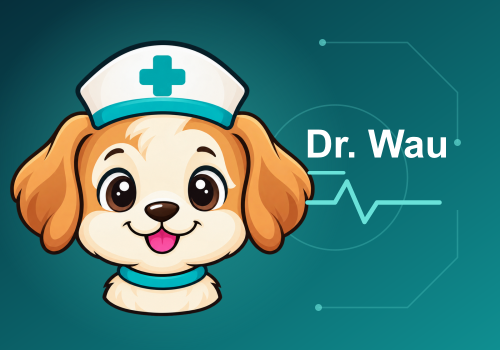
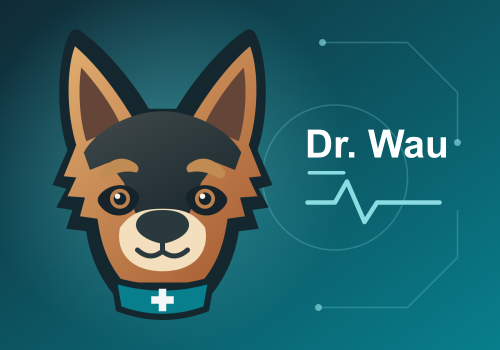
style: refresh Dr. Wau mascot and contrast

diff --git a/settings/index.html b/settings/index.html
@@ -7,9 +7,9 @@
   <script type="text/javascript" src="/homey.js" data-origin="settings"></script>
   <link rel="stylesheet" href="../assets/brand.css">
   <style>
-    :root { font-family: Inter, system-ui, sans-serif; --critical: #b42318; --high: #d92d20; --medium: #dc6803; --low: #475467; }
+    :root { font-family: Inter, system-ui, sans-serif; }
     * { box-sizing: border-box; }
-    body { margin: 0; padding: 24px; background: var(--page); color: var(--text); }
+    body { margin: 0; padding: clamp(14px, 4vw, 26px); background: var(--page); color: var(--text); font-size: 16px; line-height: 1.5; }
     main { max-width: 1040px; margin: 0 auto; }
     header, .section-heading { display: flex; gap: 18px; align-items: center; justify-content: space-between; flex-wrap: wrap; }
     h1, h2, p { margin-top: 0; }
@@ -18,80 +18,80 @@
     .brand-mark { display: block; width: 104px; height: 104px; object-fit: contain; padding: 8px; border: 1px solid var(--border); border-radius: 28px; background: var(--surface); box-shadow: 0 5px 18px rgb(15 143 145 / 8%); }
     .brand-heading h1::after { content: ''; display: block; width: 36px; height: 3px; margin: 6px auto 0; border-radius: 2px; background: var(--brand-highlight); }
     h2 { font-size: 18px; margin: 0; }
-    .muted { opacity: .7; }
-    button { appearance: none; border: 0; border-radius: 10px; min-height: 44px; max-width: 100%; overflow-wrap: anywhere; padding: 10px 14px; background: var(--brand-button); color: white; font-weight: 700; cursor: pointer; }
-    button.secondary { background: transparent; color: CanvasText; border: 1px solid color-mix(in srgb, CanvasText 20%, transparent); }
+    .muted { color: var(--muted); }
+    button { appearance: none; border: 0; border-radius: 10px; min-height: 44px; max-width: 100%; overflow-wrap: anywhere; padding: 10px 14px; background: var(--brand-button); color: white; font: 700 15px/1.4 system-ui, sans-serif; cursor: pointer; }
+    button.secondary { background: transparent; color: var(--text); border: 1px solid var(--border); }
     button.danger { background: transparent; color: var(--critical); border: 1px solid color-mix(in srgb, var(--critical) 35%, transparent); }
     button:disabled { opacity: .55; cursor: wait; }
     .actions, .editor-actions { display: flex; gap: 9px; flex-wrap: wrap; }
-    .tabs { display: flex; gap: 6px; margin: 18px 0; padding: 4px; overflow-x: auto; border: 1px solid color-mix(in srgb, CanvasText 12%, transparent); border-radius: 12px; background: var(--surface); scrollbar-width: thin; }
-    .tab { flex: 0 0 auto; padding: 9px 12px; background: transparent; color: CanvasText; border: 1px solid transparent; white-space: nowrap; }
-    .tab[aria-selected="true"] { background: var(--brand-button); color: white; box-shadow: 0 2px 7px color-mix(in srgb, var(--accent) 28%, transparent); }
-    .tab:focus-visible { outline: 3px solid color-mix(in srgb, var(--accent) 35%, transparent); outline-offset: 1px; }
+    .tabs { display: grid; grid-template-columns: repeat(5, minmax(0, 1fr)); gap: 6px; margin: 16px 0; padding: 6px; border: 1px solid var(--border); border-radius: 14px; background: var(--surface); }
+    .tab { min-width: 0; padding: 9px 8px; background: var(--soft); color: var(--text); border: 1px solid transparent; white-space: normal; }
+    .tab[aria-selected="true"] { background: var(--brand-button); color: white; border-color: var(--brand-highlight); }
+    .tab:focus-visible { outline: 3px solid var(--accent); outline-offset: 1px; }
     .tab-panel[hidden] { display: none; }
     .panel-heading { margin-bottom: 16px; }
     .overview-grid { display: grid; grid-template-columns: repeat(2, minmax(0, 1fr)); gap: 14px; }
-    .module-card { min-height: 150px; padding: 18px; text-align: left; color: CanvasText; background: var(--surface); border: 1px solid color-mix(in srgb, CanvasText 14%, transparent); border-radius: 14px; }
+    .module-card { min-height: 150px; padding: 18px; text-align: left; color: var(--text); background: var(--surface); border: 1px solid var(--border); border-radius: 14px; }
     .module-card:hover { border-color: color-mix(in srgb, var(--accent) 60%, transparent); }
     .module-card h2 { margin-bottom: 9px; }
     .module-card .module-state { display: block; margin-top: 16px; color: var(--accent); font-size: 13px; font-weight: 800; }
-    .hero { padding: 22px; margin-bottom: 16px; border-radius: 18px; background: color-mix(in srgb, var(--accent) 12%, Canvas); }
+    .hero { padding: 22px; margin-bottom: 16px; border-radius: 18px; background: var(--soft); border: 1px solid var(--border); }
     .hero h2 { font-size: 24px; line-height: 1.25; margin-bottom: 8px; }
     .device-list { display: grid; gap: 8px; margin: 14px 0; }
-    .device-item { width: 100%; display: grid; grid-template-columns: minmax(0, 1fr) auto; gap: 5px 16px; text-align: left; background: Canvas; color: CanvasText; border: 1px solid color-mix(in srgb, CanvasText 18%, transparent); }
+    .device-item { width: 100%; display: grid; grid-template-columns: minmax(0, 1fr) auto; gap: 5px 16px; text-align: left; background: var(--surface); color: var(--text); border: 1px solid var(--border); }
     .device-item strong, .device-item span { overflow-wrap: anywhere; }
     .device-item span { max-width: 150px; text-align: right; }
-    .device-item small { grid-column: 1 / -1; opacity: .75; font-weight: 400; }
+    .device-item small { grid-column: 1 / -1; color: var(--muted); font-weight: 400; }
     .device-item.needs-attention { border-left: 4px solid var(--medium); }
-    .device-detail { margin: 16px 0; padding: 18px; border: 1px solid color-mix(in srgb, var(--accent) 30%, transparent); border-radius: 14px; background: Canvas; }
+    .device-detail { margin: 16px 0; padding: 18px; border: 1px solid color-mix(in srgb, var(--accent) 30%, transparent); border-radius: 14px; background: var(--surface); }
     .device-detail pre { white-space: pre-wrap; overflow-wrap: anywhere; }
     .detail-grid { display: grid; grid-template-columns: repeat(2, minmax(0, 1fr)); gap: 12px; }
     .detail-grid label { display: grid; gap: 5px; }
-    .detail-grid input { width: 100%; padding: 8px; border-radius: 8px; border: 1px solid color-mix(in srgb, CanvasText 22%, transparent); background: Canvas; color: CanvasText; }
+    .detail-grid input { width: 100%; padding: 8px; border-radius: 8px; border: 1px solid var(--border); background: var(--surface); color: var(--text); }
     .watchdog-filter-row { display: grid; grid-template-columns: 2fr repeat(3, 1fr); gap: 8px; margin: 14px 0; }
-    .watchdog-filter-row input { min-width: 0; padding: 9px; border-radius: 8px; border: 1px solid color-mix(in srgb, CanvasText 20%, transparent); background: Canvas; color: CanvasText; }
+    .watchdog-filter-row input { min-width: 0; padding: 9px; border-radius: 8px; border: 1px solid var(--border); background: var(--surface); color: var(--text); }
     .notice { margin: 18px 0; padding: 13px 15px; border: 1px solid color-mix(in srgb, var(--accent) 35%, transparent); border-radius: 12px; background: var(--surface); }
     .score-grid { display: grid; grid-template-columns: 1.25fr repeat(4, minmax(100px, 1fr)); gap: 10px; margin: 18px 0; }
-    .score-card { min-height: 112px; border: 1px solid color-mix(in srgb, CanvasText 14%, transparent); border-radius: 14px; padding: 15px; background: var(--surface); }
+    .score-card { min-height: 112px; border: 1px solid var(--border); border-radius: 14px; padding: 15px; background: var(--surface); }
     .score-card.main { background: var(--brand-button); color: white; }
     .score { font-size: 36px; font-weight: 800; line-height: 1; margin: 7px 0; }
-    .label { font-size: 12px; text-transform: uppercase; letter-spacing: .06em; opacity: .75; }
+    .label { font-size: 12px; text-transform: uppercase; letter-spacing: .06em; }
     .inventory { display: flex; flex-wrap: wrap; gap: 8px; margin-bottom: 22px; }
     .filters { display: flex; align-items: center; gap: 10px; margin: 0 0 16px; padding: 12px; border-radius: 12px; background: var(--surface); }
     .filters label { font-size: 13px; font-weight: 700; white-space: nowrap; }
     .filters select { max-width: 260px; }
-    .pill, .badge { padding: 6px 9px; border-radius: 999px; background: var(--surface); border: 1px solid color-mix(in srgb, CanvasText 12%, transparent); font-size: 12px; }
+    .pill, .badge { padding: 6px 9px; border-radius: 999px; background: var(--surface); border: 1px solid var(--border); font-size: 12px; }
     .badge { padding: 3px 7px; }
-    .badge.ignored { color: var(--medium); border-color: color-mix(in srgb, var(--medium) 55%, transparent); }
-    .finding { border: 1px solid color-mix(in srgb, CanvasText 14%, transparent); border-left: 5px solid var(--low); border-radius: 10px; padding: 13px 14px; margin-bottom: 10px; }
+    .badge.ignored { color: var(--muted); border-color: var(--border); }
+    .finding { background: var(--surface); border: 1px solid var(--border); border-left: 5px solid var(--low); border-radius: 10px; padding: 13px 14px; margin-bottom: 10px; }
     .finding.critical { border-left-color: var(--critical); }
     .finding.high { border-left-color: var(--high); }
     .finding.medium { border-left-color: var(--medium); }
     .finding.ignored { opacity: .82; border-left-style: dashed; }
     .finding h3 { font-size: 15px; margin: 5px 0; }
-    .finding p { margin: 4px 0 0; font-size: 13px; }
+    .finding p { margin: 4px 0 0; font-size: 14px; }
     .cause-details > details { border-top: 1px solid var(--border); }
-    .meta { display: flex; gap: 6px; align-items: center; flex-wrap: wrap; font-size: 11px; opacity: .75; text-transform: uppercase; letter-spacing: .04em; }
+    .meta { display: flex; gap: 6px; align-items: center; flex-wrap: wrap; font-size: 12px; color: var(--muted); text-transform: uppercase; letter-spacing: .04em; }
     details { margin-top: 10px; }
-    summary { cursor: pointer; color: var(--accent); font-weight: 700; font-size: 13px; }
+    summary { cursor: pointer; color: var(--accent); font-weight: 700; font-size: 14px; }
     .editor { display: grid; grid-template-columns: repeat(2, minmax(160px, 1fr)); gap: 10px; padding: 12px 0 2px; }
     .editor label { display: grid; gap: 5px; font-size: 12px; font-weight: 700; }
     .editor label.wide, .editor-actions { grid-column: 1 / -1; }
-    select, textarea { width: 100%; border-radius: 8px; border: 1px solid color-mix(in srgb, CanvasText 20%, transparent); background: Canvas; color: CanvasText; padding: 9px; font: inherit; }
+    select, textarea { width: 100%; border-radius: 8px; border: 1px solid var(--border); background: var(--surface); color: var(--text); padding: 9px; font: inherit; }
     textarea { min-height: 70px; resize: vertical; }
     .check { display: flex !important; grid-template-columns: auto 1fr !important; align-items: center; justify-content: start; }
     .check input { width: 18px; height: 18px; }
-    .board { margin: 22px 0; padding: 16px; border-radius: 14px; background: color-mix(in srgb, var(--medium) 6%, Canvas); border: 1px solid color-mix(in srgb, var(--medium) 30%, transparent); }
+    .board { margin: 22px 0; padding: 16px; border-radius: 14px; background: var(--surface); border: 1px solid var(--border); }
     .watchdog { margin: 18px 0 24px; padding: 16px; border: 1px solid color-mix(in srgb, var(--accent) 35%, transparent); border-radius: 14px; background: var(--surface); }
     .watchdog-grid { display: grid; grid-template-columns: repeat(3, minmax(140px, 1fr)); gap: 12px; margin: 14px 0; }
     .watchdog-grid label { display: grid; gap: 5px; font-size: 12px; font-weight: 700; }
     .monitoring-wrap { overflow-x: auto; margin: 12px 0; }
     .monitoring-table { width: 100%; border-collapse: collapse; font-size: 13px; }
-    .monitoring-table th, .monitoring-table td { padding: 10px; text-align: left; vertical-align: top; border-bottom: 1px solid color-mix(in srgb, CanvasText 15%, transparent); min-width: 130px; }
-    .monitoring-table select, .monitoring-table input { max-width: 190px; min-height: 40px; padding: 6px; background: Canvas; color: CanvasText; border: 1px solid color-mix(in srgb, CanvasText 25%, transparent); border-radius: 6px; }
+    .monitoring-table th, .monitoring-table td { padding: 10px; text-align: left; vertical-align: top; border-bottom: 1px solid var(--border); min-width: 130px; }
+    .monitoring-table select, .monitoring-table input { max-width: 190px; min-height: 40px; padding: 6px; background: var(--surface); color: var(--text); border: 1px solid var(--border); border-radius: 6px; }
     .monitoring-table small { display: block; margin-top: 6px; }
-    .watchdog-grid input[type="number"] { width: 100%; padding: 9px; border-radius: 8px; border: 1px solid color-mix(in srgb, CanvasText 20%, transparent); background: Canvas; color: CanvasText; }
-    .checkbox-list { max-height: 190px; overflow-y: auto; margin-top: 6px; padding: 5px; border: 1px solid color-mix(in srgb, CanvasText 20%, transparent); border-radius: 8px; background: Canvas; }
+    .watchdog-grid input[type="number"] { width: 100%; padding: 9px; border-radius: 8px; border: 1px solid var(--border); background: var(--surface); color: var(--text); }
+    .checkbox-list { max-height: 190px; overflow-y: auto; margin-top: 6px; padding: 5px; border: 1px solid var(--border); border-radius: 8px; background: var(--surface); }
     .checkbox-row { display: flex; align-items: center; gap: 9px; padding: 6px 8px; border-radius: 6px; font-size: 13px; cursor: pointer; }
     .checkbox-row:hover { background: var(--surface); }
     .checkbox-row input { flex: 0 0 auto; width: 18px; height: 18px; margin: 0; }
@@ -103,7 +103,7 @@
     summary { padding: 10px 0; }
     .notice, .hero, .module-card, .finding, .pill, .badge, #migration-summary { overflow-wrap: anywhere; }
     .board-description { margin: 8px 0 14px; }
-    .empty { text-align: center; padding: 32px; border: 1px dashed color-mix(in srgb, CanvasText 25%, transparent); border-radius: 12px; }
+    .empty { text-align: center; padding: 32px; border: 1px dashed var(--border); border-radius: 12px; }
     @media (max-width: 760px) { body { padding: 16px; } .tabs { display: grid; grid-template-columns: repeat(2, minmax(0, 1fr)); overflow: visible; } .tab { width: 100%; min-width: 0; white-space: normal; } .score-grid { grid-template-columns: repeat(2, minmax(0, 1fr)); } .score-card.main { grid-column: 1 / -1; } .editor, .watchdog-grid, .overview-grid, .detail-grid, .watchdog-filter-row { grid-template-columns: 1fr; } .filters { flex-wrap: wrap; } .filters select { max-width: 100%; } }
     @media (max-width: 480px) { .device-item { grid-template-columns: minmax(0, 1fr); } .device-item span { max-width: none; text-align: left; } .device-detail { padding: 12px; } .brand-mark { width: 88px; height: 88px; } }
   </style>

diff --git a/backup/settings/backup.css b/backup/settings/backup.css
@@ -1,7 +1,7 @@
 :root {
   color-scheme: light dark;
-  --blue: var(--accent); --sky: var(--brand-line); --orange: #bd702d;
-  --danger: #ad353b; --success: #236a50;
+  --blue: var(--accent); --sky: var(--brand-line); --orange: var(--brand-primary);
+  --danger: var(--critical);
   font-family: system-ui, -apple-system, 'Segoe UI', sans-serif;
 }
 * { box-sizing: border-box; }
@@ -9,7 +9,7 @@
 html { scroll-behavior: smooth; scroll-padding-top: 18px; }
 body { margin: 0; background: var(--page); color: var(--text); font: 16px/1.6 system-ui, -apple-system, 'Segoe UI', sans-serif; }
 main { max-width: 960px; padding: 24px; margin: auto; }
-main a { color: var(--blue); text-underline-offset: 4px; }
+main a:not(.button) { color: var(--blue); text-underline-offset: 4px; }
 main h1 { color: var(--text); font-size: clamp(28px, 5vw, 38px); line-height: 1.15; margin: 9px 0 12px; }
 main h2 { color: var(--text); font-size: 21px; line-height: 1.35; margin: 0 0 14px; }
 main p { color: var(--muted); margin: 10px 0 16px; overflow-wrap: anywhere; }
@@ -38,9 +38,10 @@ main p { color: var(--muted); margin: 10px 0 16px; overflow-wrap: anywhere; }
 .stat { padding: 12px; background: var(--soft); border-radius: 12px; text-align: center; }
 .stat b { display: block; font-size: 24px; color: var(--blue); }
 main button, main .button { appearance: none; display: inline-flex; align-items: center; justify-content: center; gap: 7px; min-height: 44px; max-width: 100%; font: 650 15px/1.4 system-ui, sans-serif; background: var(--brand-button); color: #fff; border: 1px solid transparent; border-radius: 10px; padding: 11px 16px; cursor: pointer; text-decoration: none; white-space: normal; }
-main button:hover, main .button:hover { filter: brightness(1.08); }
+main button:hover, main .button:hover { background: var(--brand-button-hover); }
+main button.secondary:hover { background: var(--surface); }
 main button.secondary { background: var(--soft); color: var(--blue); border-color: var(--border); }
-main button.danger { background: var(--danger); color: #fff; }
+main button.danger { background: var(--critical-button); color: #fff; }
 main button:disabled { opacity: .5; cursor: not-allowed; }
 main input, main select { font: 16px/1.5 system-ui, sans-serif; width: 100%; min-width: 0; min-height: 44px; padding: 10px 12px; border: 1px solid var(--border); border-radius: 9px; background: var(--surface); color: var(--text); }
 main select option { background: var(--surface); color: var(--text); }
@@ -82,11 +83,6 @@ main :focus-visible { outline: 3px solid var(--sky); outline-offset: 3px; }
 .file-input { position: absolute; width: 1px; height: 1px; opacity: 0; padding: 0; min-height: 0; }
 .file-button:has(+input:focus-visible) { outline: 3px solid var(--sky); outline-offset: 3px; }
 .file-button:has(+input:disabled) { opacity: .5; cursor: not-allowed; }
-@media (prefers-color-scheme: dark) {
-  :root { --danger: #ffb2b5; --success: #8addb4; }
-  main button.danger { background: #99373d; color: #fff; }
-  main input[type='checkbox'] { accent-color: var(--accent); }
-}
 @media (max-width: 600px) {
   main { padding: 14px; }
   .hero { padding: 20px; gap: 12px; }

diff --git a/settings/backup/backup.css b/settings/backup/backup.css
@@ -1,7 +1,7 @@
 :root {
   color-scheme: light dark;
-  --blue: var(--accent); --sky: var(--brand-line); --orange: #bd702d;
-  --danger: #ad353b; --success: #236a50;
+  --blue: var(--accent); --sky: var(--brand-line); --orange: var(--brand-primary);
+  --danger: var(--critical);
   font-family: system-ui, -apple-system, 'Segoe UI', sans-serif;
 }
 * { box-sizing: border-box; }
@@ -9,7 +9,7 @@
 html { scroll-behavior: smooth; scroll-padding-top: 18px; }
 body { margin: 0; background: var(--page); color: var(--text); font: 16px/1.6 system-ui, -apple-system, 'Segoe UI', sans-serif; }
 main { max-width: 960px; padding: 24px; margin: auto; }
-main a { color: var(--blue); text-underline-offset: 4px; }
+main a:not(.button) { color: var(--blue); text-underline-offset: 4px; }
 main h1 { color: var(--text); font-size: clamp(28px, 5vw, 38px); line-height: 1.15; margin: 9px 0 12px; }
 main h2 { color: var(--text); font-size: 21px; line-height: 1.35; margin: 0 0 14px; }
 main p { color: var(--muted); margin: 10px 0 16px; overflow-wrap: anywhere; }
@@ -38,9 +38,10 @@ main p { color: var(--muted); margin: 10px 0 16px; overflow-wrap: anywhere; }
 .stat { padding: 12px; background: var(--soft); border-radius: 12px; text-align: center; }
 .stat b { display: block; font-size: 24px; color: var(--blue); }
 main button, main .button { appearance: none; display: inline-flex; align-items: center; justify-content: center; gap: 7px; min-height: 44px; max-width: 100%; font: 650 15px/1.4 system-ui, sans-serif; background: var(--brand-button); color: #fff; border: 1px solid transparent; border-radius: 10px; padding: 11px 16px; cursor: pointer; text-decoration: none; white-space: normal; }
-main button:hover, main .button:hover { filter: brightness(1.08); }
+main button:hover, main .button:hover { background: var(--brand-button-hover); }
+main button.secondary:hover { background: var(--surface); }
 main button.secondary { background: var(--soft); color: var(--blue); border-color: var(--border); }
-main button.danger { background: var(--danger); color: #fff; }
+main button.danger { background: var(--critical-button); color: #fff; }
 main button:disabled { opacity: .5; cursor: not-allowed; }
 main input, main select { font: 16px/1.5 system-ui, sans-serif; width: 100%; min-width: 0; min-height: 44px; padding: 10px 12px; border: 1px solid var(--border); border-radius: 9px; background: var(--surface); color: var(--text); }
 main select option { background: var(--surface); color: var(--text); }
@@ -82,11 +83,6 @@ main :focus-visible { outline: 3px solid var(--sky); outline-offset: 3px; }
 .file-input { position: absolute; width: 1px; height: 1px; opacity: 0; padding: 0; min-height: 0; }
 .file-button:has(+input:focus-visible) { outline: 3px solid var(--sky); outline-offset: 3px; }
 .file-button:has(+input:disabled) { opacity: .5; cursor: not-allowed; }
-@media (prefers-color-scheme: dark) {
-  :root { --danger: #ffb2b5; --success: #8addb4; }
-  main button.danger { background: #99373d; color: #fff; }
-  main input[type='checkbox'] { accent-color: var(--accent); }
-}
 @media (max-width: 600px) {
   main { padding: 14px; }
   .hero { padding: 20px; gap: 12px; }

diff --git a/assets/brand.css b/assets/brand.css
@@ -1,16 +1,24 @@
 :root {
   color-scheme: light dark;
-  --accent: #0d8385;
-  --brand-highlight: #0f8f91;
-  --brand-button: #0d8385;
-  --brand-line: #35bdb1;
-  --page: #f7fbfb;
+  --brand-primary: #087f8c;
+  --accent: #066772;
+  --brand-highlight: var(--brand-primary);
+  --brand-button: #066c78;
+  --brand-button-hover: #055762;
+  --brand-line: #087f8c;
+  --page: #f3f7f8;
   --surface: #ffffff;
-  --soft: #edf7f6;
-  --text: #183b40;
-  --muted: #526d72;
-  --border: #c9dfdd;
-  --brand-hero: linear-gradient(135deg, #e4f5f2, #f7fbfb);
+  --soft: #e4eef1;
+  --text: #172b35;
+  --muted: #415c69;
+  --border: #a4bac4;
+  --low: #627984;
+  --success: #226c41;
+  --medium: #934700;
+  --high: #a22d33;
+  --critical: #a52430;
+  --critical-button: #a52430;
+  --brand-hero: linear-gradient(135deg, var(--soft), var(--surface));
 }
 /* Homey's legacy form CSS loads after app CSS. Scope these rules to our
    custom views and outrank its label and typed-input selectors. */
@@ -37,16 +45,27 @@ main.dr-wau-ui input[type='search'] {
 }
 @media (prefers-color-scheme: dark) {
   :root {
-    --accent: #68d7ca;
-    --brand-highlight: #68d7ca;
-    --brand-button: #0d8385;
-    --brand-line: #35bdb1;
-    --page: #0e1c20;
-    --surface: #172b30;
-    --soft: #20373c;
-    --text: #edf7f6;
-    --muted: #b1ceca;
-    --border: #3c5c5f;
-    --brand-hero: linear-gradient(135deg, #1a3c3f, #172b30);
+    --accent: #8bdce2;
+    --brand-highlight: #65cbd2;
+    --brand-line: #65cbd2;
+    --page: #102a35;
+    --surface: #183641;
+    --soft: #20424e;
+    --text: #f3f7f8;
+    --muted: #b9ccd4;
+    --border: #547582;
+    --low: #83a3af;
+    --success: #8be0ac;
+    --medium: #ffc478;
+    --high: #ffc2ab;
+    --critical: #ffabb2;
   }
+}
+
+main.dr-wau-ui :is(a, button, input, select, summary, textarea):focus-visible {
+  outline: 2px solid var(--accent);
+  outline-offset: 3px;
+}
+main.dr-wau-ui input[type='checkbox'] {
+  accent-color: var(--brand-primary);
 }

diff --git a/docs/branding-1.0.0.md b/docs/branding-1.0.0.md
@@ -1,5 +1,20 @@
 # Dr. Wau 1.0.0 – Branding nach Privacy-Abnahme
 
+## Schäferhund und Petrol-Palette
+
+Das neue Maskottchen steht als SVG in `assets/dr-wau.svg`. Das Werkzeug unter
+`tools/generate-assets.cjs` rendert daraus den Avatar und die drei Store-Bilder.
+Das monochrome App-Icon greift dieselbe Silhouette auf.
+
+Hauptseite und Backups verwenden eine gemeinsame Palette. Je 24 Kombinationen
+aus Text, Statusfarben, Flächen und Buttonfarben wurden geprüft. Der niedrigste
+Kontrast beträgt 5,41:1 im hellen und 6,01:1 im dunklen App-Theme.
+
+Die frühere Live-Messung zeigte im dunklen Homey-Webmodus einen Farbfilter am
+äußeren Frame. Dieser kann die komplette App einschließlich der Bilder umfärben
+und liegt außerhalb ihres Stylesheets. Die neuen App-Farben verwenden keine
+Gegenfilter. Die Darstellung im Homey-Dialog bleibt manuell abzunehmen.
+
 Diese Änderungen folgen auf `BACKUP PRIVACY PASS` und sind ein separater
 Branding-Commit. Der Branding-Stand `0328f4c` wurde am 3. Oktober 2026 als
 Development-App installiert und anschließend 60 Sekunden beobachtet:
